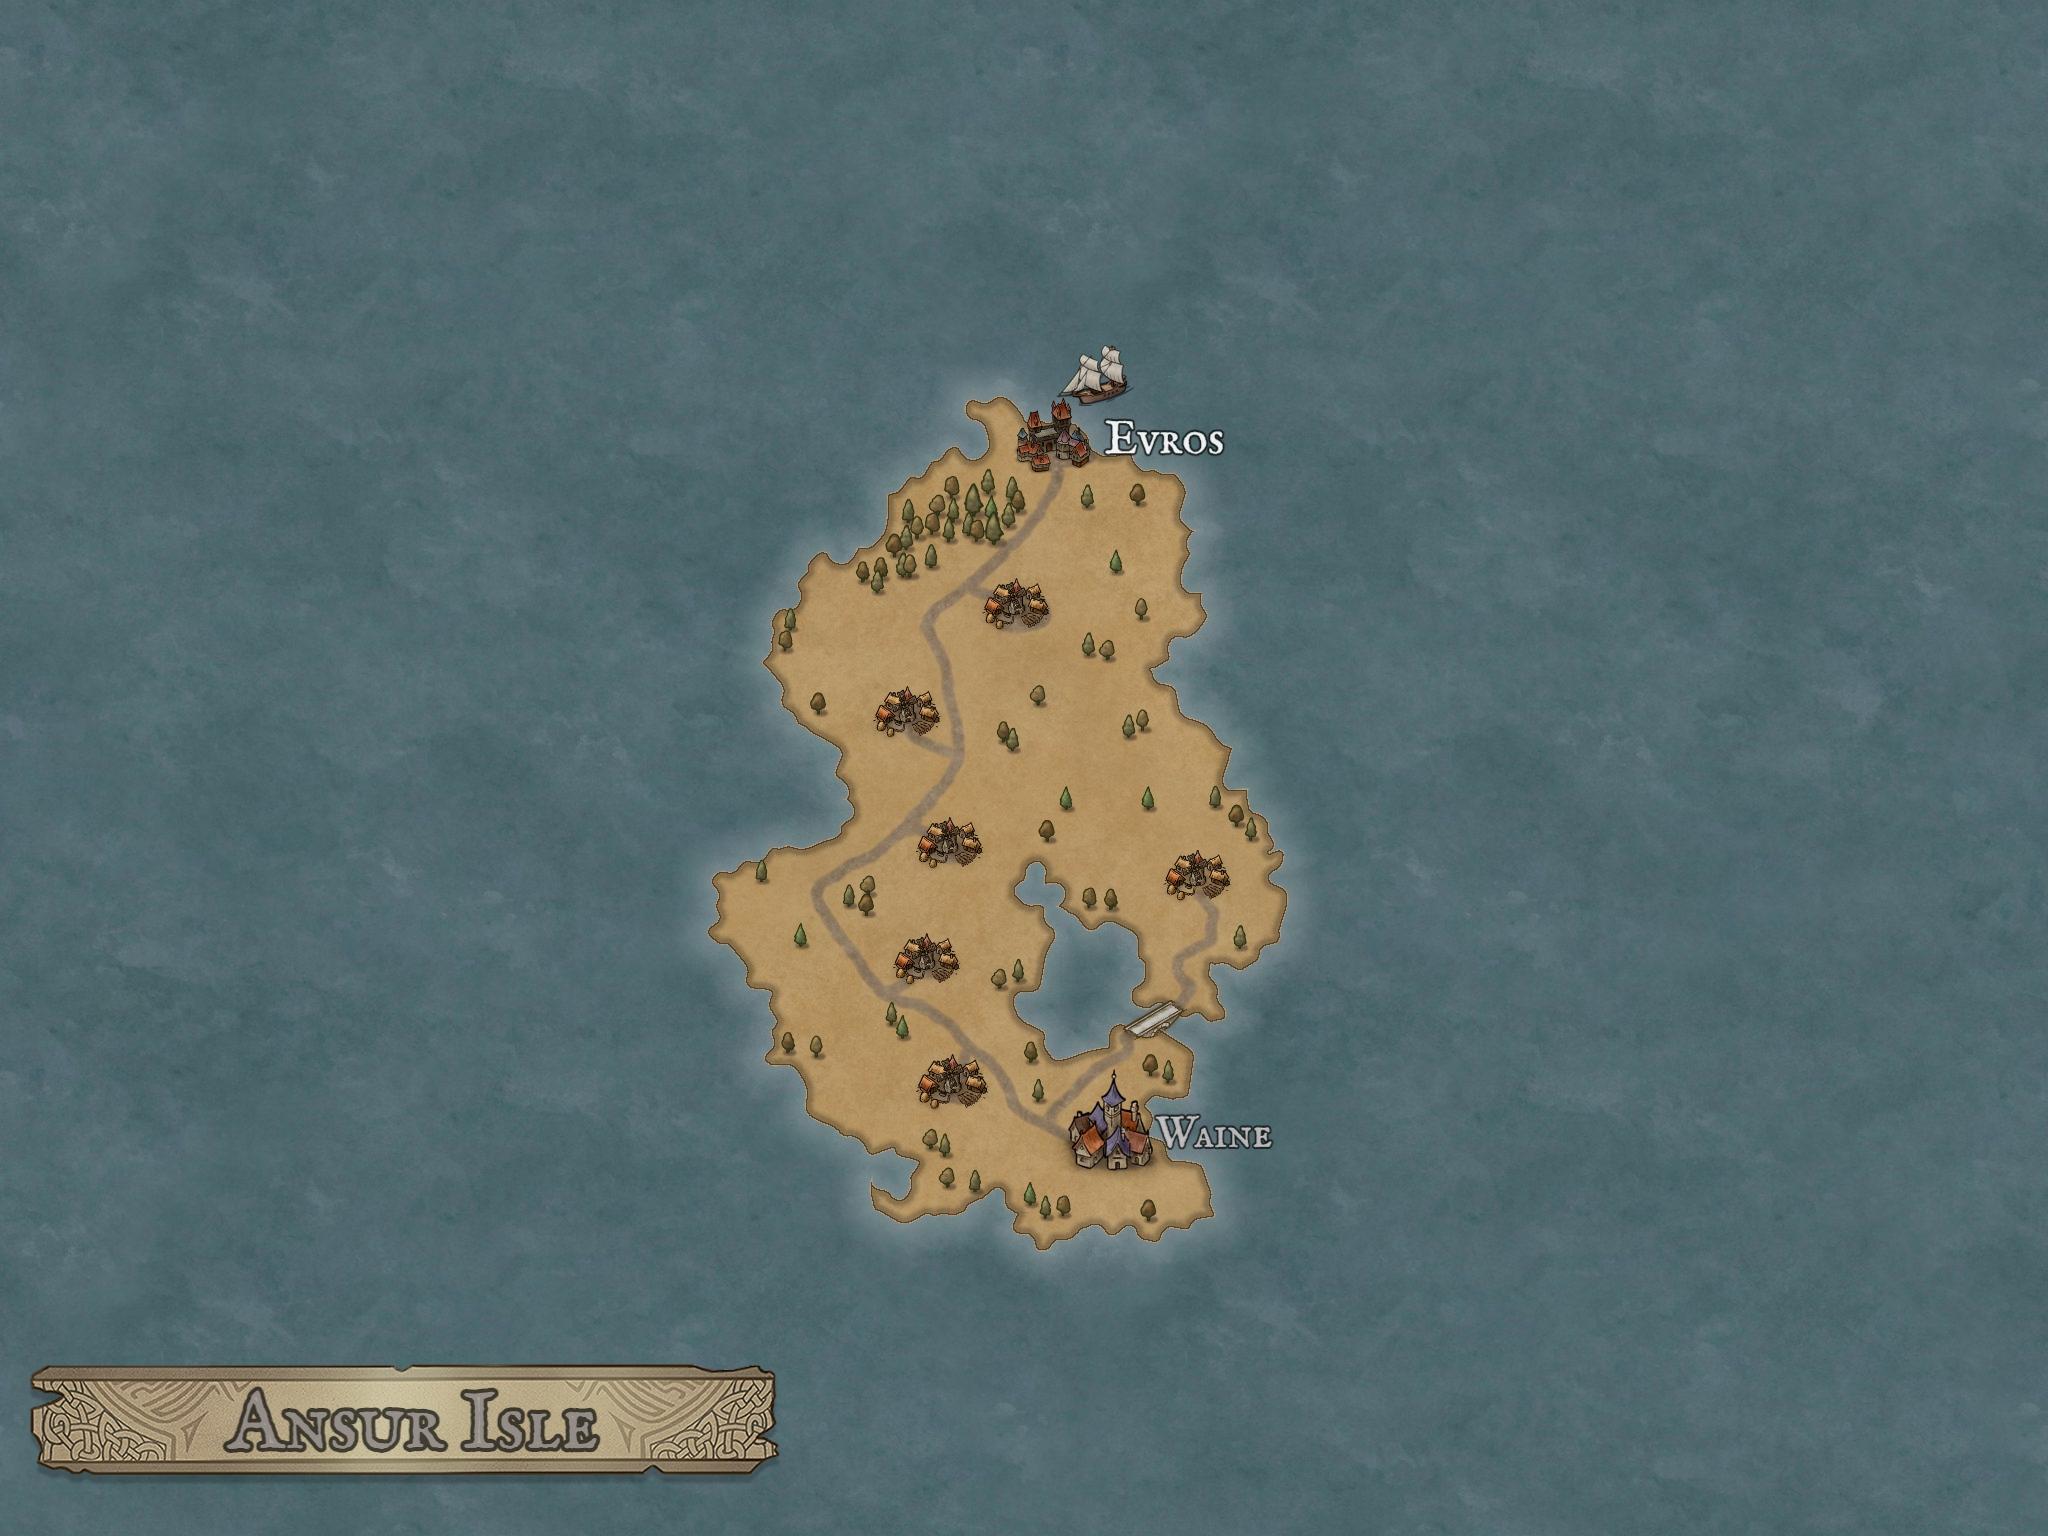
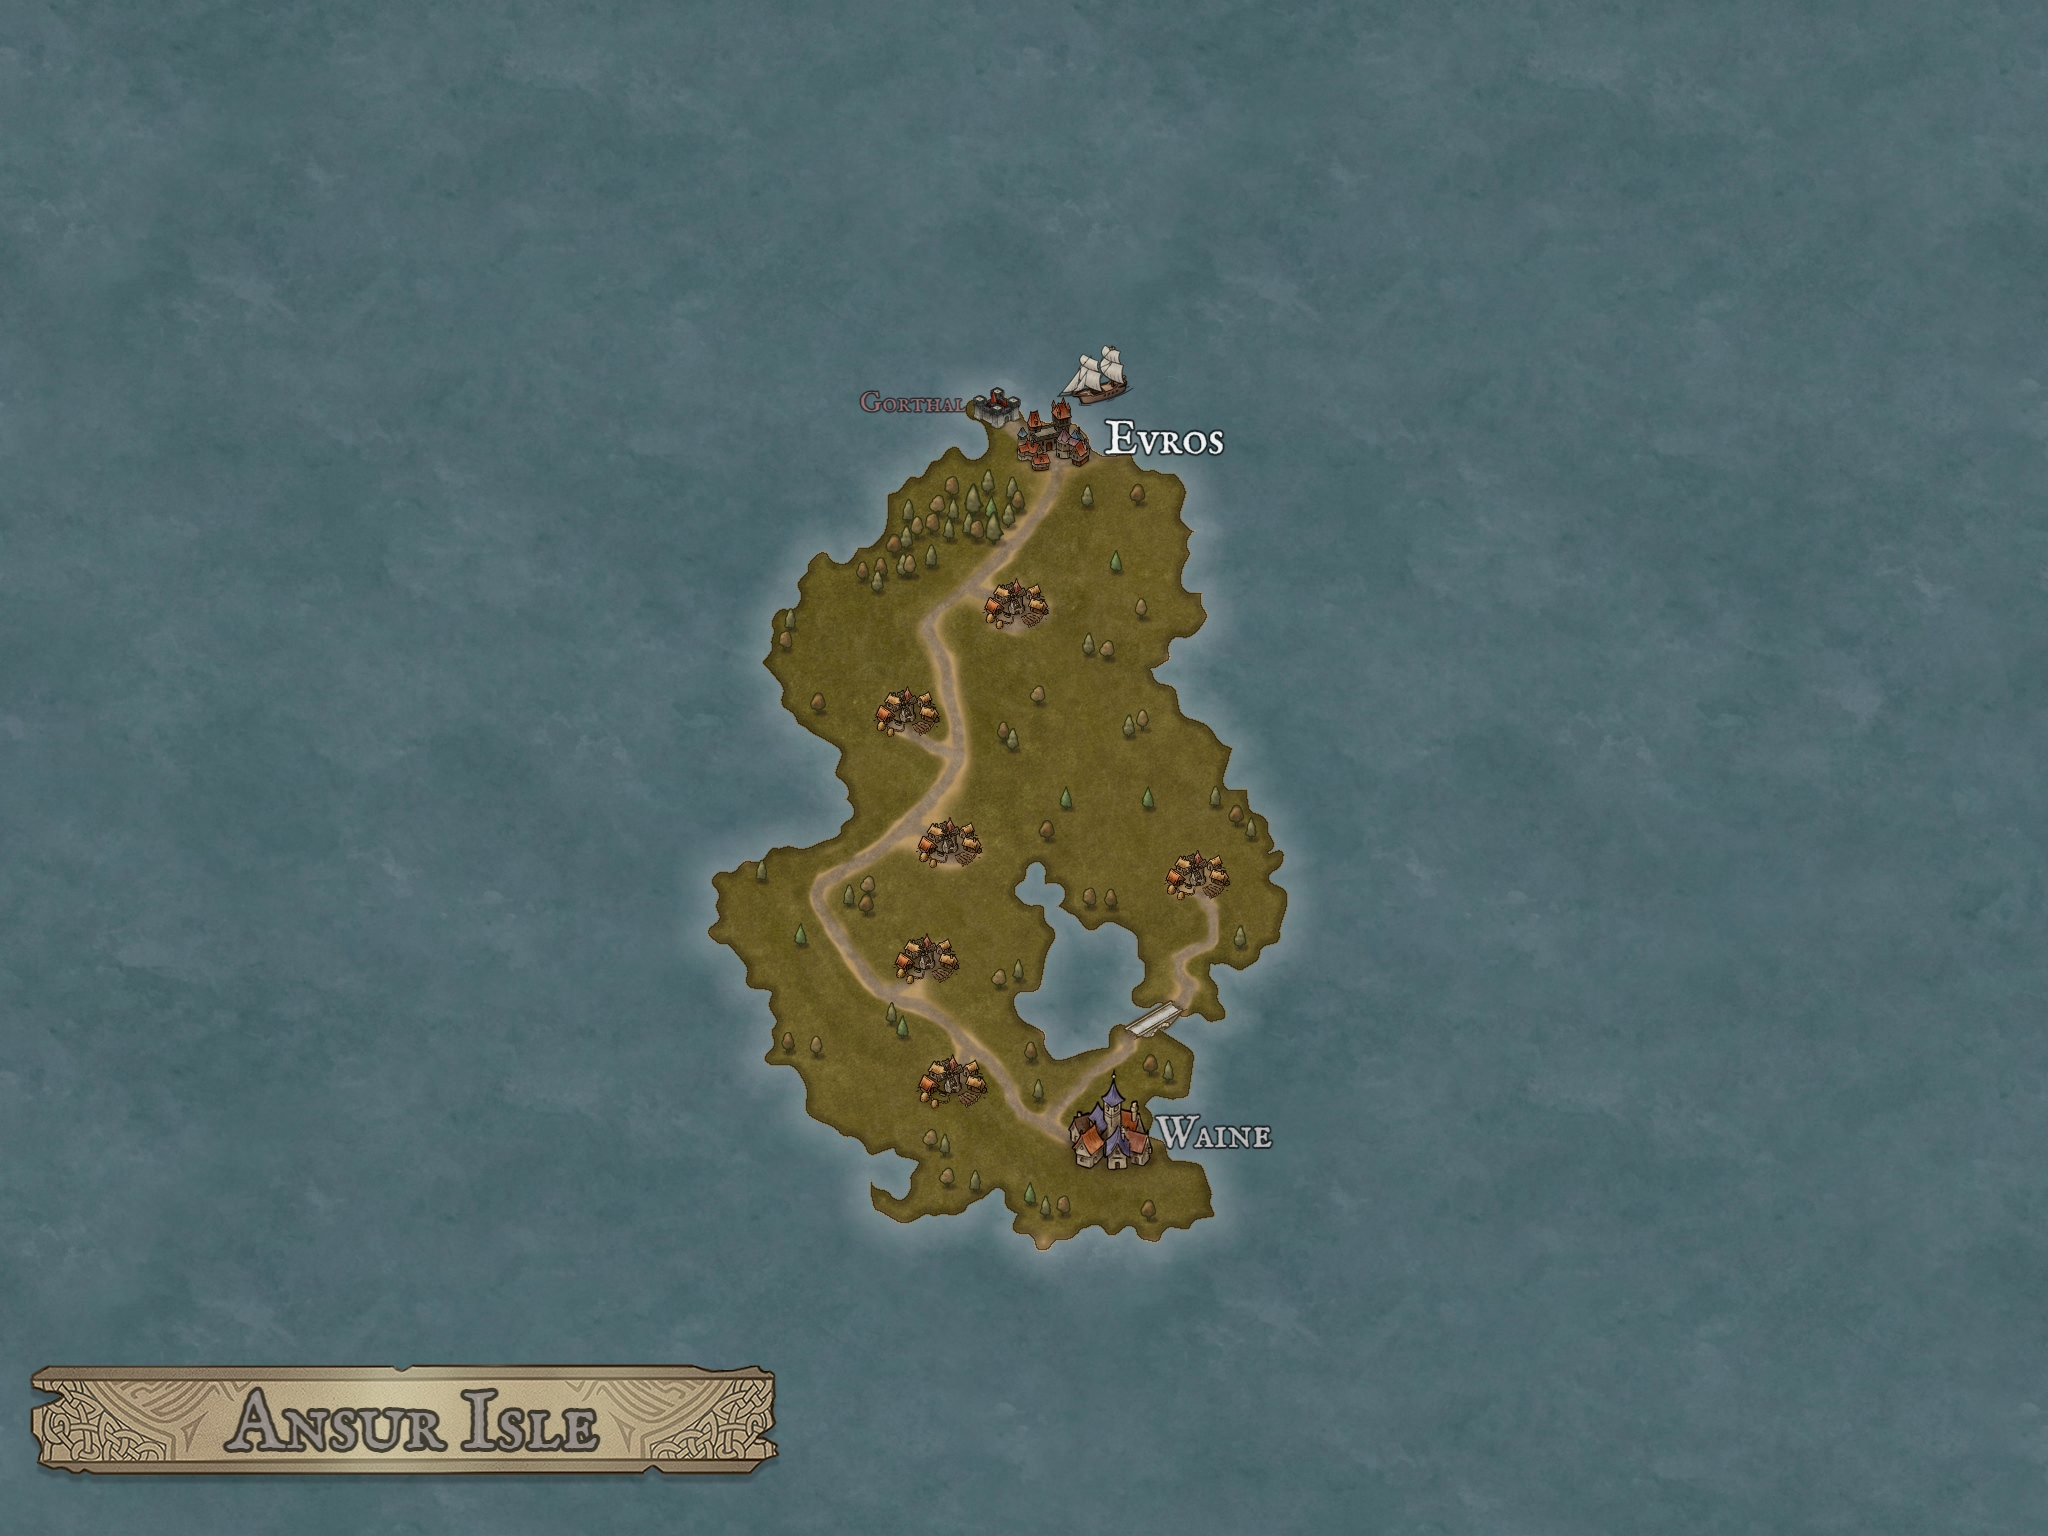
Updates towards BSaL walkthrough + updated Ansur map

Changed region(s): [[0.3438, 0.25, 0.625, 0.8125]]

diff --git a/Loreum/Topics/Characters/Names.md b/Loreum/Topics/Characters/Names.md
@@ -21,6 +21,7 @@ or just if you would like to look at cultural differences between civilisations.
 
 | Name    | Localisation                  | Description                                         |
 |---------|-------------------------------|-----------------------------------------------------|
+| Dominic | Whole Baedoor                 | Common name                                         |
 | Heim    | Whole Baedoor                 | Common name, originated from Baedoor Northern Coast | 
 | Heimlig | Ansur, Baedoor Northern Coast | Probably mix of **Heim** and nordwinian suffix      |
 | Norran  | Whole Baedoor                 | Quite regular baedoorian name                       |
@@ -59,11 +60,13 @@ or just if you would like to look at cultural differences between civilisations.
 ---
 
 ### Baedoorian Surnames
-| Surname | Localisation          | Description                                                        |
-|---------|-----------------------|--------------------------------------------------------------------|
-| Gorth   | Whole Baedoor         | Common surname                                                     |
-| Naevos  | Ansur                 | Surname coming from trish Nai and arennian-baedoorian Vos families |
-| Vos     | Arennan, West Baedoor | Rare surname connected with Arennan naming                         |
+| Surname   | Localisation          | Description                                                        |
+|-----------|-----------------------|--------------------------------------------------------------------|
+| Gorth     | Whole Baedoor         | Common surname                                                     |
+| Naevos    | Ansur                 | Surname coming from trish Nai and arennian-baedoorian Vos families |
+| Velga, le | East Baedoor          | Aristocratic surname, of Isuga heritage                            |
+| Vos       | Arennan, West Baedoor | Rare surname connected with Arennan naming                         |
+| Winfleton | West Baedoor          | Aristocratic name, nowadays recognised with **Heim Winfleton**     |
 
 ---
 ### Tri Surnames

diff --git a/Mechanicum/Walkthroughs/BSaL/BSaL_Quests.md b/Mechanicum/Walkthroughs/BSaL/BSaL_Quests.md
@@ -1,6 +1,7 @@
 # 📯 Quests
 
 ### Summary:
+- [Get Parchment in Evros](BSaL_Quests.md#get-parchment-in-evros) ♻
 - [Herbalist Mission](BSaL_Quests.md#herbalist-mission) ♻
 - [Work on Evros Farm](BSaL_Quests.md#work-on-evros-farm) ♻♨
 
@@ -11,6 +12,12 @@ LEGEND:
 ♨ - bugged
 ```
 ---
+#### Get Parchment in Evros
+This quests is given by mage in Evros Docks, if you enter his shop, after asking if he needs any help.
+It simply requires you to go further to Evros, to shop with general goods, and ask for parchment.
+After completing the quest, mage will increase your spellcasting skill by 1.  
+As this quest is redoable, you can easily cheese the system and boost your skill to high levels.
+
 #### Herbalist Mission
 This quest is not listed in journal with specific name, but it is the only truly redoable quest you
 can get to earn money daily.  

diff --git a/Mechanicum/Walkthroughs/BSaL/BSaL_Locations.md b/Mechanicum/Walkthroughs/BSaL/BSaL_Locations.md
@@ -2,9 +2,15 @@
 
 ### Summary:
 - [Evros](BSaL_Locations.md#evros)
+- [Evros Docks](BSaL_Locations.md#evros-docks)
 - [Evros Fields](BSaL_Locations.md#evros-fields)
 
 ---
+#### Evros Docks
+Starting point of free-roaming mode of the game, after tutorial part. Here you can get your first
+quests, as well as go further into Evros city. In docks you can visit tavern, mage shop, as well
+as look at warehouse.
+
 #### Evros
 Main place for services offered in game. It contains general shop, alchemical shop, smith, bank,
 and also newspaper boy from who you can buy magazine on local news.

diff --git a/Mechanicum/Walkthroughs/BSaL/BSaL_NPCs.md b/Mechanicum/Walkthroughs/BSaL/BSaL_NPCs.md
@@ -1,6 +1,12 @@
 # 🎎 NPCs
 
-Summary:
-
+### Summary:
+- [Dominic le Velga](BSaL_NPCs.md#dominic-le-velga)
+- [Unnamed sailor](BSaL_NPCs.md#unnamed-sailor)
 
 ---
+#### Dominic le Velga
+We can find him in Evros docks. He tries to supervise goods lading onto his father's ship.
+
+#### Unnamed sailor
+You can find him in Evros docks. He can tell you what you can find on Ansur isle.
